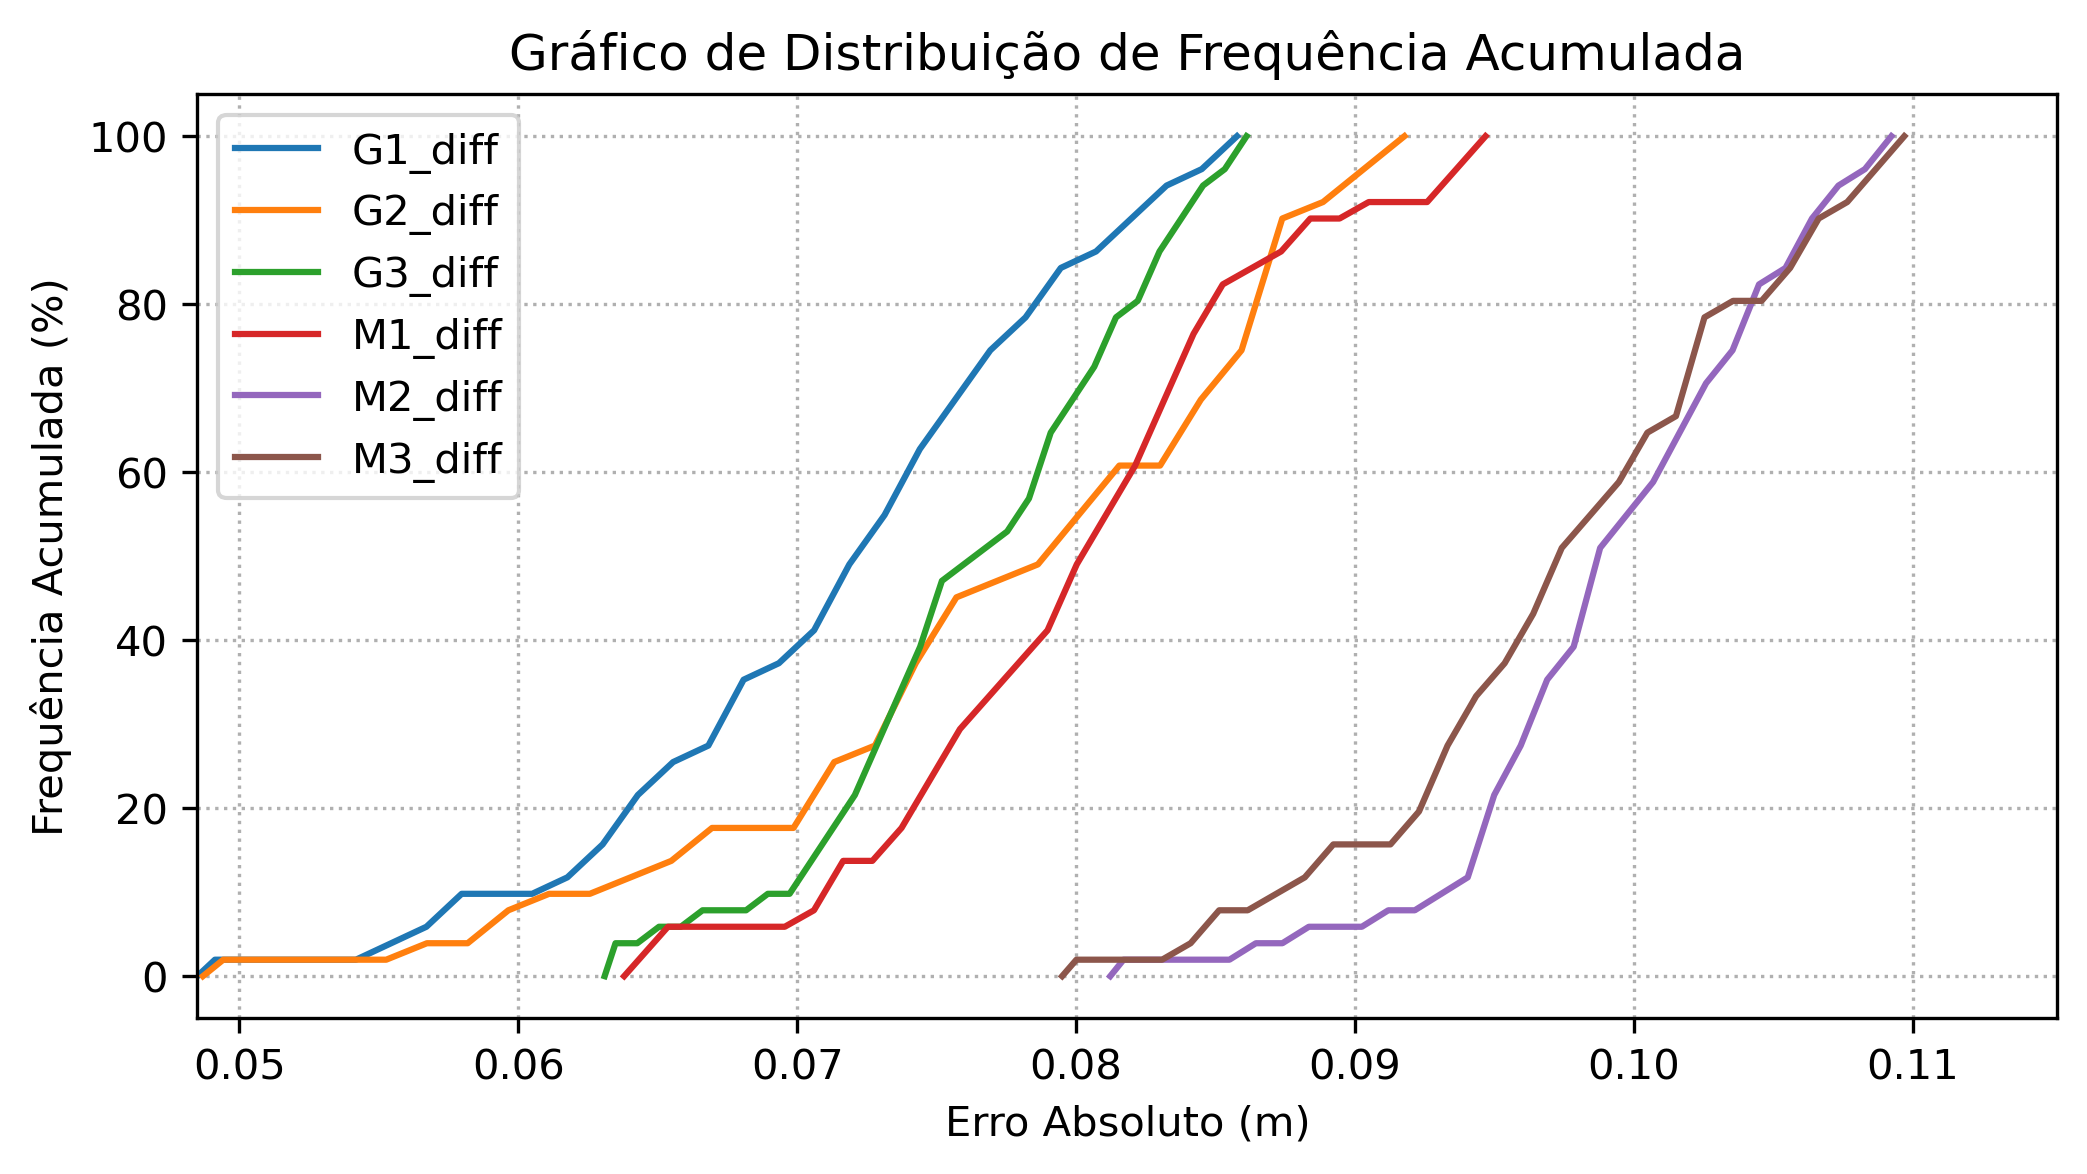
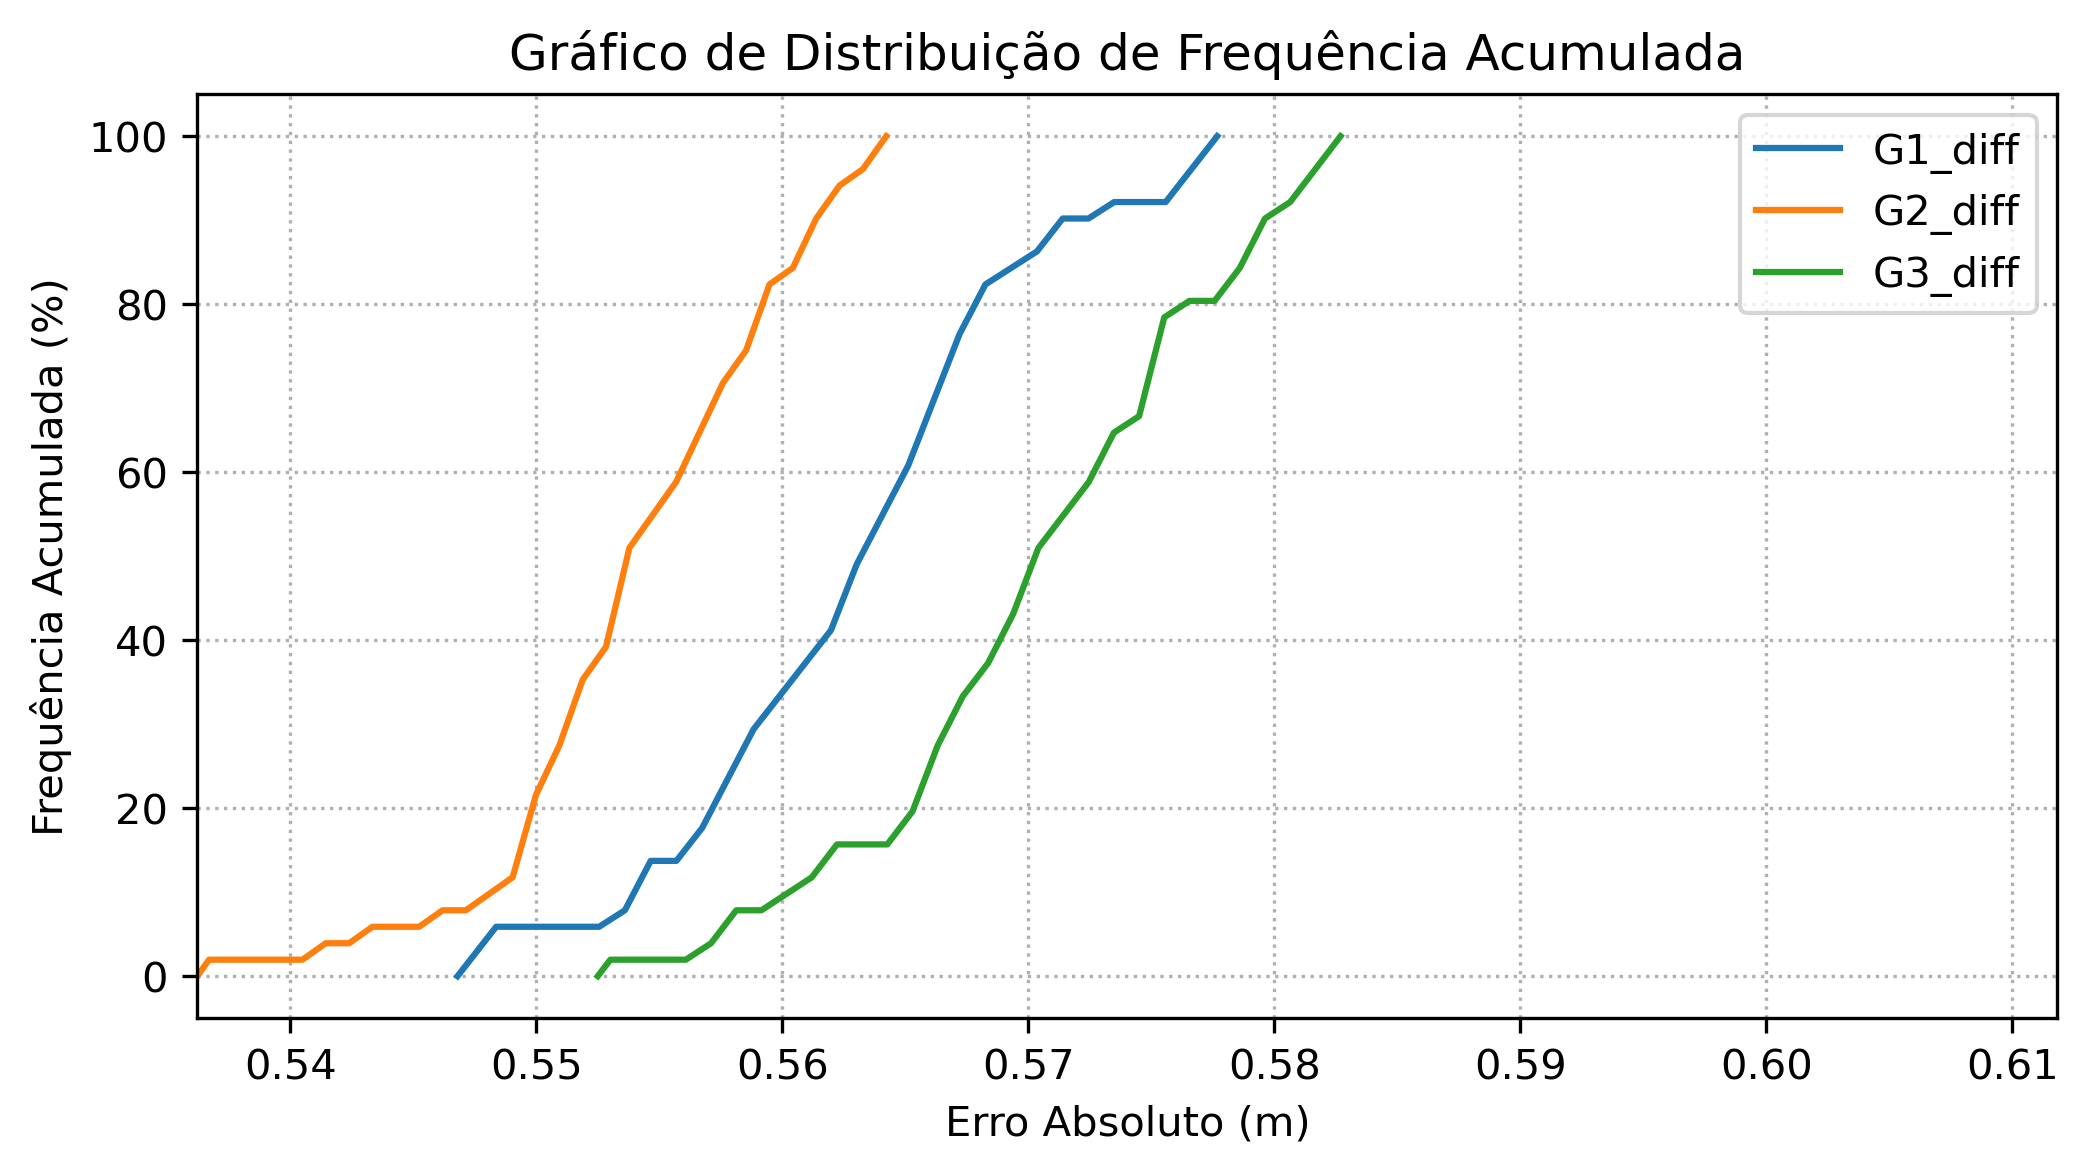
Criação da Branch Para G1xG2xG3
Criação da Branch Para G1xG2xG3, mantendo o projeto organizado.

diff --git a/STATS_V2.py b/STATS_V2.py
@@ -36,17 +36,14 @@ for nome_sheet, df_alti in df_alti.items():
     df_dict = pd.read_excel(file_path, sheet_name=None)
 
     for nome_sheet, df_alti in df_dict.items():
-        df_alti.columns = ['PT', 'NIV', 'G1', 'G2', 'G3', 'M1', 'M2', 'M3']
+        df_alti.columns = ['PT', 'NIV', 'G1', 'G2', 'G3']
 
     # Tratamentos (colunas a partir da terceira: V1, V2, V3, ...)
-    trats = ['G1','G2','G3','M1','M2','M3']
+    trats = ['G1','G2','G3']
     const_column = {
         "G1": 1.407,
         "G2": 1.407,
         "G3": 1.407,
-        "M1": 1.890,
-        "M2": 1.862,
-        "M3": 1.880
     }     
 
     # DataFrame das diferenças
@@ -685,8 +682,8 @@ for nome_sheet, df_alti in df_alti.items():
             else:
                 escrever_no_arquivo("IC não calculado (n ≤ 1).")
             
-            escrever_no_arquivo(f"Erro absoluto correspondente a 90% (P90): {p90:.4f} m")
             escrever_no_arquivo("")
+            escrever_no_arquivo(f"Erro absoluto correspondente a 90% (P90): {p90:.4f} m")
             escrever_no_arquivo("===== CLASSIFICAÇÃO POR CLASSE =====")
             
             for classe, status in conclusoes.items():
